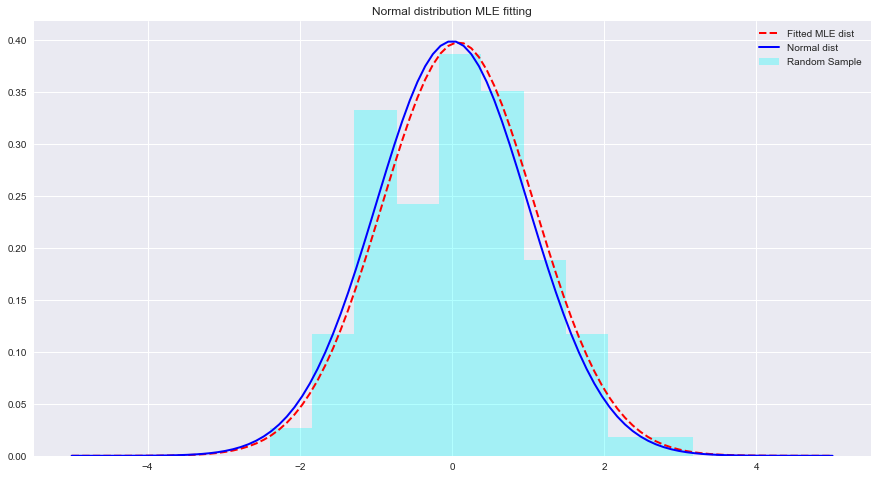
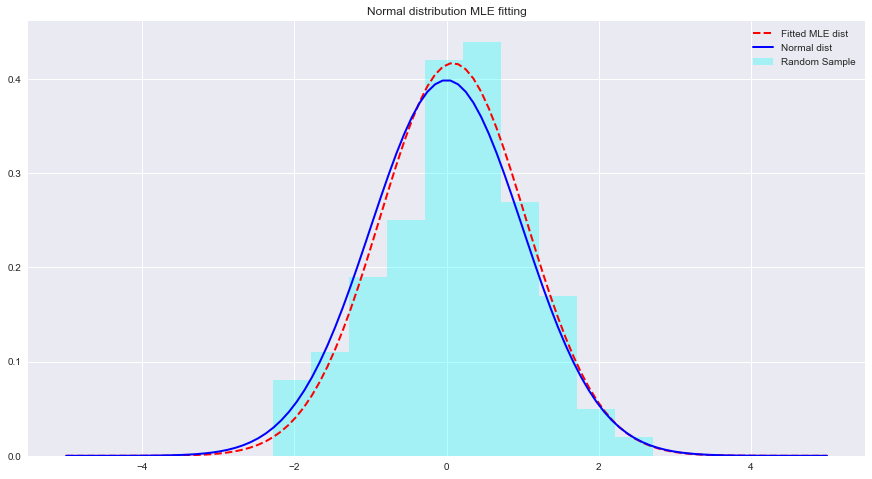
review solution

diff --git a/README.md b/README.md
@@ -1,5 +1,5 @@
 
-# MLE with Normal Distribution - Lab
+# MLE with Normal Distributions - Lab
 
 ## Introduction
 
@@ -49,7 +49,7 @@ param[0], param[1]
 
 
 
-    (0.08241224761452863, 1.002987490235812)
+    (0.08167329184799861, 0.9568910655984155)
 
 
 
